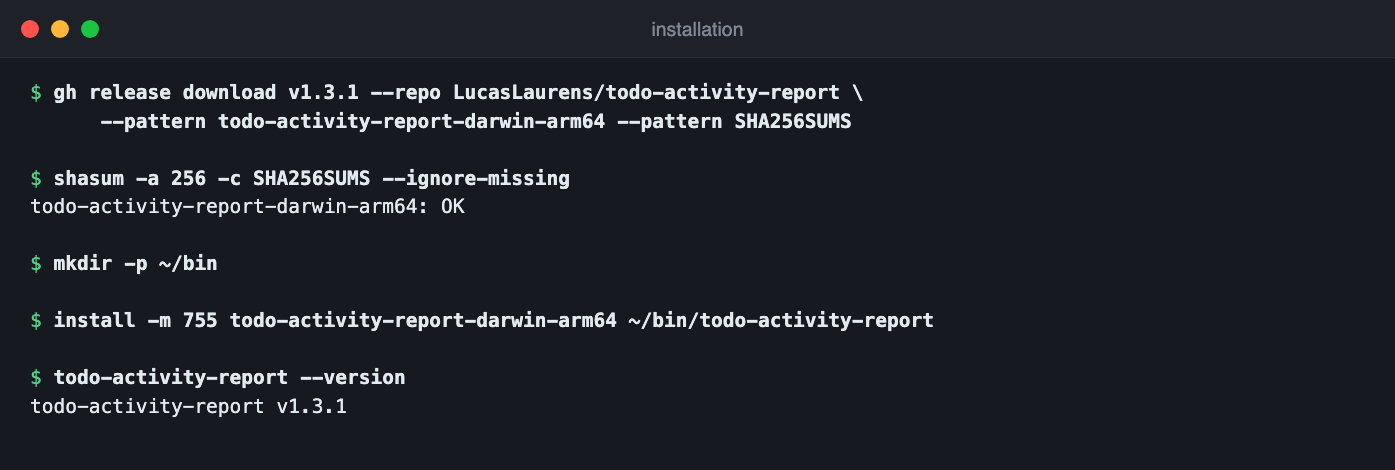
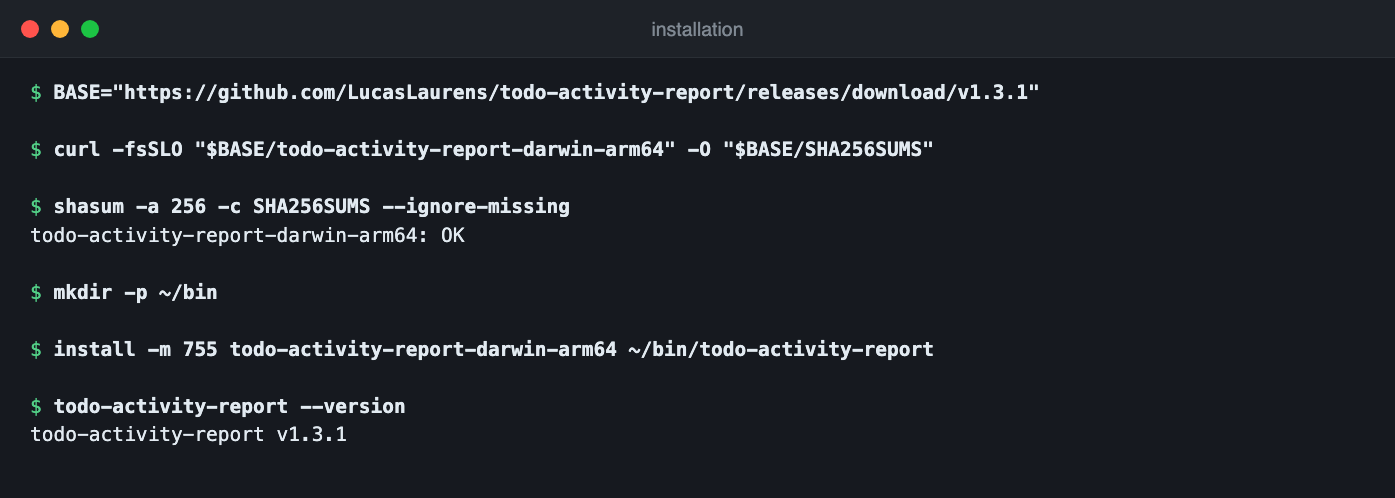
docs: install from the public repo with curl, CI runs on Actions
The repository is public: a release downloads with plain curl, no gh
session or authentication. The install guide, README and screenshot
show the anonymous download (verified against v1.3.1). status.md no
longer claims Actions is blocked.

diff --git a/docs/install.md b/docs/install.md
@@ -33,22 +33,20 @@ Il ne réclame que deux choses :
 | `SHA256SUMS` | empreintes des 4 binaires |
 
 Chaque tag pousse ces fichiers dans une **Release GitHub** (voir [ci.md](ci.md#build--release-sur-tag)).
-Dernière release : **v1.3.1** — liste complète via
-`gh release list --repo LucasLaurens/todo-activity-report`.
+Dernière release : **v1.3.1** — liste complète sur
+[la page des Releases](https://github.com/LucasLaurens/todo-activity-report/releases).
 
 ### Télécharger et installer
 
-Le dépôt est **privé** : le téléchargement demande une authentification GitHub.
-Le plus simple est `gh`, qui réutilise la session existante — inutile de
-manipuler un token à la main :
+Le dépôt est public : aucune authentification, `curl` suffit.
 
 ```bash
 TAG=v1.3.1                    # tag visé
 TARGET=darwin-arm64           # ou darwin-amd64, linux-amd64, linux-arm64
 
 # 1. binaire + empreintes, sous leur nom de publication
-gh release download "$TAG" --repo LucasLaurens/todo-activity-report \
-  --pattern "todo-activity-report-$TARGET" --pattern SHA256SUMS
+BASE="https://github.com/LucasLaurens/todo-activity-report/releases/download/$TAG"
+curl -fsSLO "$BASE/todo-activity-report-$TARGET" -O "$BASE/SHA256SUMS"
 
 # 2. vérifier AVANT de renommer (voir plus bas)
 shasum -a 256 -c SHA256SUMS --ignore-missing   # macOS
@@ -68,14 +66,12 @@ chmod 600 ~/bin/.env
 
 Installation minimale = **2 fichiers** : le binaire (~6 Mo) et le `.env`.
 
-Depuis un navigateur, la page des Releases fait la même chose en un clic — la
-session GitHub suffit.
+Depuis un navigateur, la page des Releases fait la même chose en un clic. Avec
+`gh` déjà installé, `gh release download "$TAG" --repo LucasLaurens/todo-activity-report
+--pattern "todo-activity-report-$TARGET" --pattern SHA256SUMS` revient au même.
 
-> Sur un dépôt privé, l'URL directe
-> `https://github.com/<org>/<dépôt>/releases/download/<tag>/<nom>` répond **404**
-> sans authentification. C'est une vraie erreur : `curl -f` s'arrête et
-> n'écrit rien. Le risque n'est donc pas un faux fichier, c'est une commande qui
-> ne marche pas — d'où `gh release download`, qui porte la session.
+`curl -f` échoue sur une erreur HTTP (tag ou cible mal orthographiés) au lieu
+d'écrire la page d'erreur à la place du binaire.
 
 ### Vérifier l'empreinte (recommandé)
 
@@ -162,10 +158,10 @@ Ajouter `-X main.version=<tag>` pour que `--version` annonce autre chose que `de
 Remplacer le binaire, le `.env` reste en place :
 
 ```bash
-TAG=v1.1.0                    # tag visé
+TAG=v1.3.1                    # tag visé
 TARGET=darwin-arm64
-gh release download "$TAG" --repo LucasLaurens/todo-activity-report \
-  --pattern "todo-activity-report-$TARGET" --pattern SHA256SUMS
+BASE="https://github.com/LucasLaurens/todo-activity-report/releases/download/$TAG"
+curl -fsSLO "$BASE/todo-activity-report-$TARGET" -O "$BASE/SHA256SUMS"
 shasum -a 256 -c SHA256SUMS --ignore-missing
 install -m 755 "todo-activity-report-$TARGET" ~/bin/todo-activity-report
 ~/bin/todo-activity-report --version          # confirme le tag installé

diff --git a/README.md b/README.md
@@ -26,15 +26,14 @@ directement depuis le tracker (Jira fourni).
 
 ### Binaire (recommandé)
 
-Prérequis : un accès au dépôt (il est **privé**, demander l'accès à son
-propriétaire) et la CLI [`gh`](https://cli.github.com) connectée (`gh auth login`).
+Aucun prérequis : le dépôt est public, `curl` suffit.
 
 ```bash
 TAG=v1.3.1
 TARGET=darwin-arm64     # darwin-amd64 (Mac Intel), linux-amd64, linux-arm64
 
-gh release download "$TAG" --repo LucasLaurens/todo-activity-report \
-  --pattern "todo-activity-report-$TARGET" --pattern SHA256SUMS
+BASE="https://github.com/LucasLaurens/todo-activity-report/releases/download/$TAG"
+curl -fsSLO "$BASE/todo-activity-report-$TARGET" -O "$BASE/SHA256SUMS"
 shasum -a 256 -c SHA256SUMS --ignore-missing      # Linux : sha256sum -c …
 mkdir -p ~/bin
 install -m 755 "todo-activity-report-$TARGET" ~/bin/todo-activity-report
@@ -175,10 +174,10 @@ Un autre tracker apporte ses propres variables — voir [docs/trackers.md](docs/
 
 ### Autour du dépôt, pas dans `.env`
 
-Le dépôt est privé, donc cloner et télécharger une Release demandent une
-authentification GitHub. Elle est déléguée à `gh` (`gh auth login`), qui garde le
-jeton dans le trousseau du système : **aucun token à écrire dans un fichier**, et
-le CLI n'en lit jamais. Le `git push` en SSH n'en a pas besoin non plus.
+Le dépôt est public : cloner et télécharger une Release ne demandent aucune
+authentification. Seul le mainteneur qui pousse ou publie s'authentifie, via
+`gh auth login` ou SSH, qui gardent le jeton hors des fichiers : **aucun token à
+écrire nulle part**, et le CLI n'en lit jamais.
 
 ### Sentry
 

diff --git a/docs/status.md b/docs/status.md
@@ -86,11 +86,11 @@ Aucune dépendance Go tierce : stdlib uniquement.
 - [ ] Sortie terminal uniquement (pas de JSON/CSV export).
 - [ ] Ne plus installer la **v1.2.0** : compilée en Go 1.22.12, elle embarque 63 vulnérabilités
   stdlib connues (`govulncheck -mode=binary`). Les **v1.3.0** et **v1.3.1** (go1.26.10) n'en ont aucune ; la v1.3.1 ajoute les durcissements de faible gravité.
-- [ ] CI GitHub Actions bloquée par la facturation du compte : les v1.3.0 et v1.3.1 ont été compilées en
-  local avec les commandes exactes du job `release` (voir [ci.md](ci.md#publier-une-version)).
-- [ ] Pas de Homebrew tap / installeur : le binaire se télécharge à la main depuis la Release.
-  Le dépôt étant privé, le téléchargement passe par `gh release download`, qui porte la
-  session GitHub ; l'URL directe répond 404 sans authentification — voir [install.md](install.md).
+- [ ] Les binaires v1.3.0 et v1.3.1 ont été compilés en local (Actions alors bloquées par la
+  facturation), avec les commandes exactes du job `release`. Depuis le passage du dépôt en
+  public, la CI tourne sur Actions ; le job `release` reste à voir tourner au prochain tag.
+- [ ] Pas de Homebrew tap / installeur : le binaire se télécharge à la main depuis la Release
+  (`curl`, sans authentification : le dépôt est public) — voir [install.md](install.md).
 
 ## Modèle IA par défaut
 

diff --git a/docs/ci.md b/docs/ci.md
@@ -70,7 +70,7 @@ git push origin v1.0.0
 Aucun secret à configurer : le `GITHUB_TOKEN` fourni au workflow suffit à
 créer la Release.
 
-Sans CI disponible (cas des v1.3.0 et v1.3.1, Actions bloquées par la facturation), on
+Si la CI est indisponible (ce fut le cas des v1.3.0 et v1.3.1, quand Actions était bloqué), on
 reproduit le job à la main, puis on publie avec `gh` :
 
 ```bash
